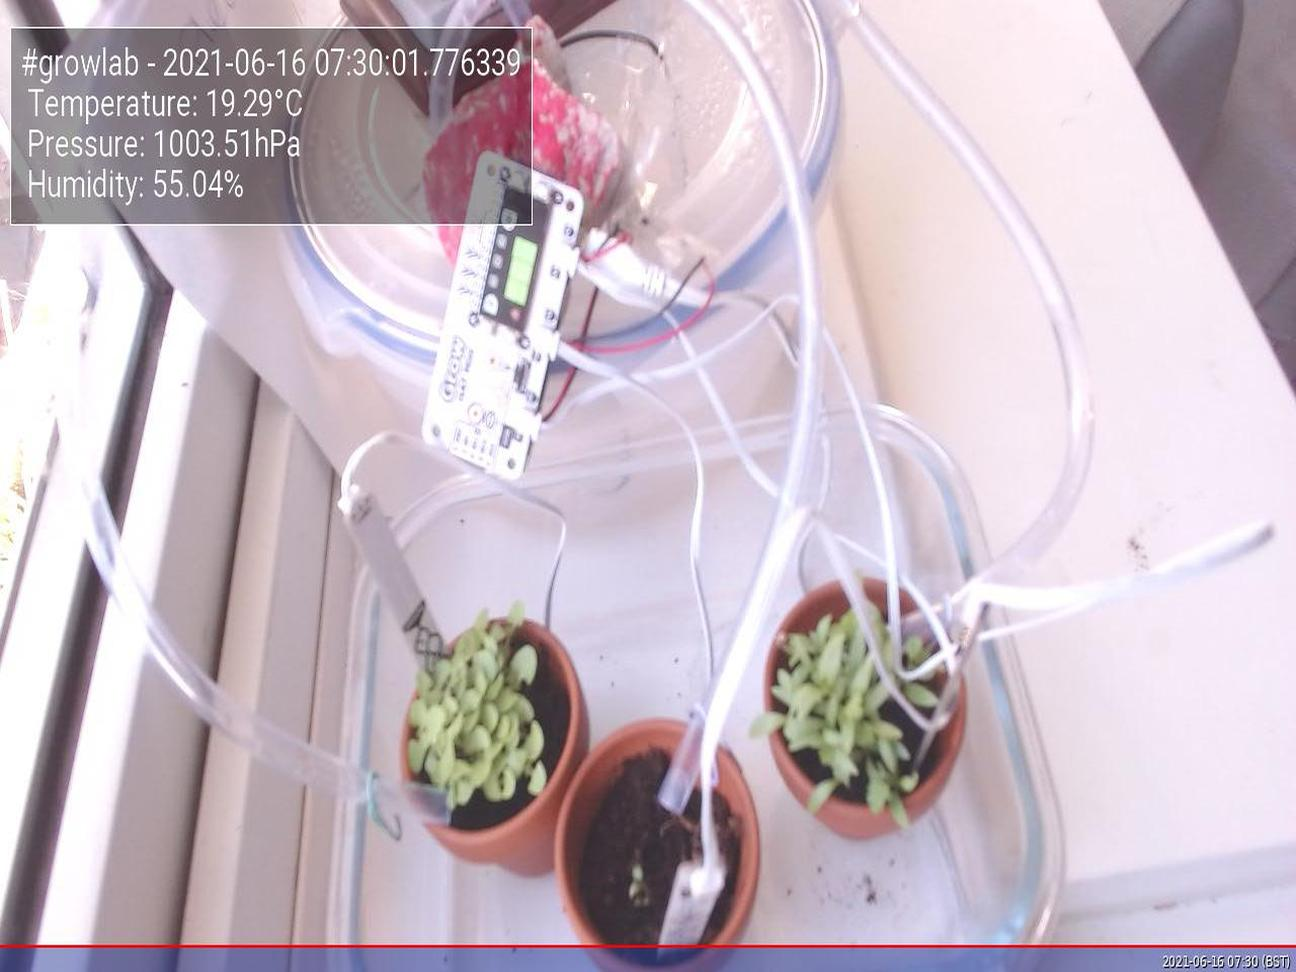
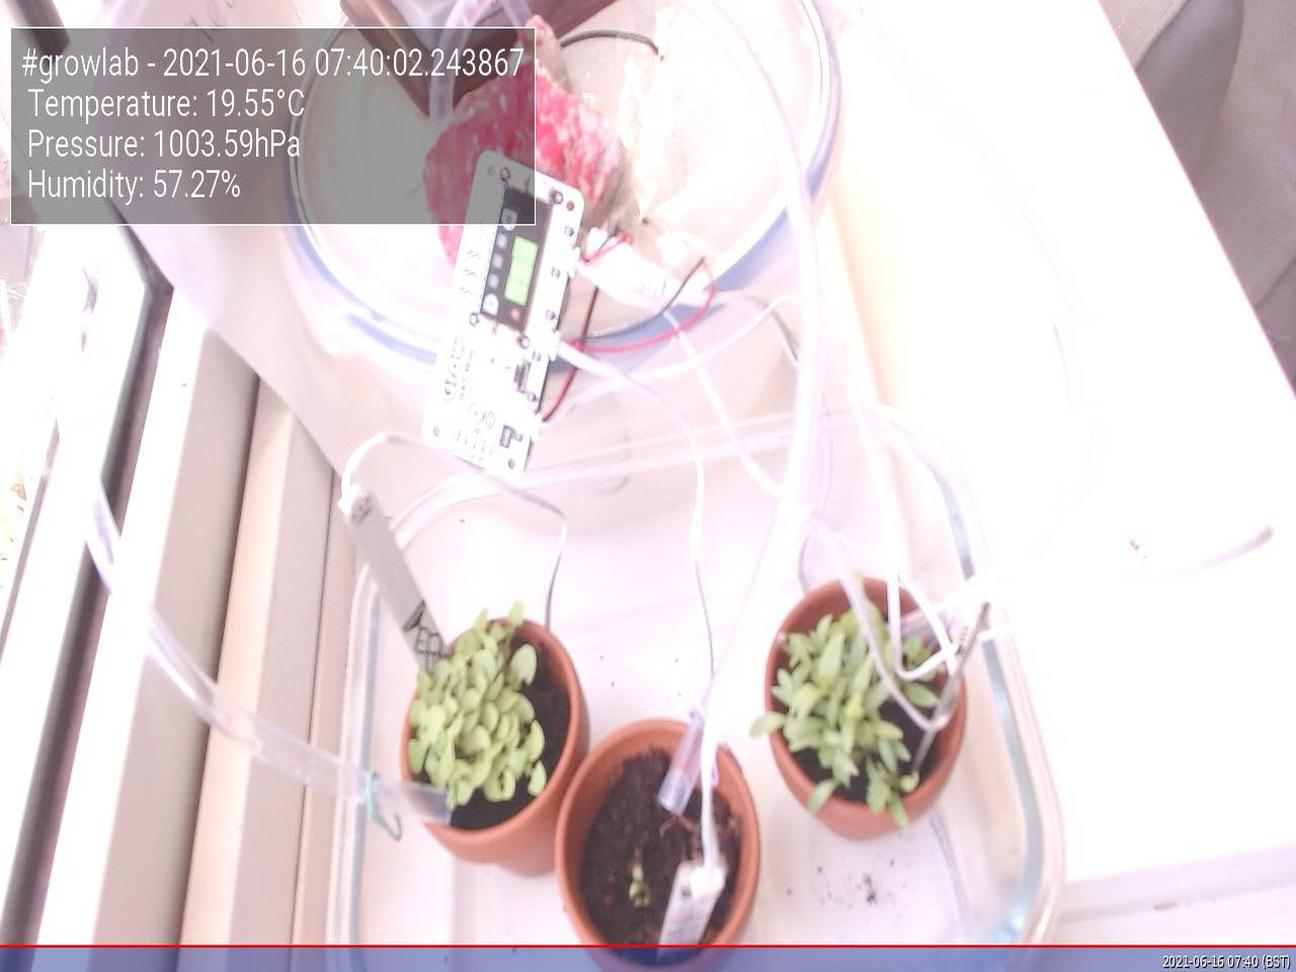
Update images at Wed 16 Jun 07:40:06 BST 2021

diff --git a/app/docs/index.html b/app/docs/index.html
@@ -47,19 +47,19 @@
                         <tbody>
                             <tr>
                                 <td>Time</td>
-                                <td>2021-06-16 07:30:01.776339</td>
+                                <td>2021-06-16 07:40:02.243867</td>
                             </tr>
                             <tr>
                                 <td>Temperature</td>
-                                <td>19.29°C</td>
+                                <td>19.55°C</td>
                             </tr>
                             <tr>
                                 <td>Humidity</td>
-                                <td>55.04%</td>
+                                <td>57.27%</td>
                             </tr>
                             <tr>
                                 <td>Pressure</td>
-                                <td>1003.51hPa</td>
+                                <td>1003.59hPa</td>
                             </tr>
                         </tbody>
                     </table>
@@ -67,7 +67,7 @@
 
                 <h5>Latest image</h5>
                 <div style="width: 85%;">
-                            <img class="figure-img img-fluid rounded" src="./preview.jpg?uid=1623825005.5370355">
+                            <img class="figure-img img-fluid rounded" src="./preview.jpg?uid=1623825605.9747653">
                 </div>
             </div>
         </div>
